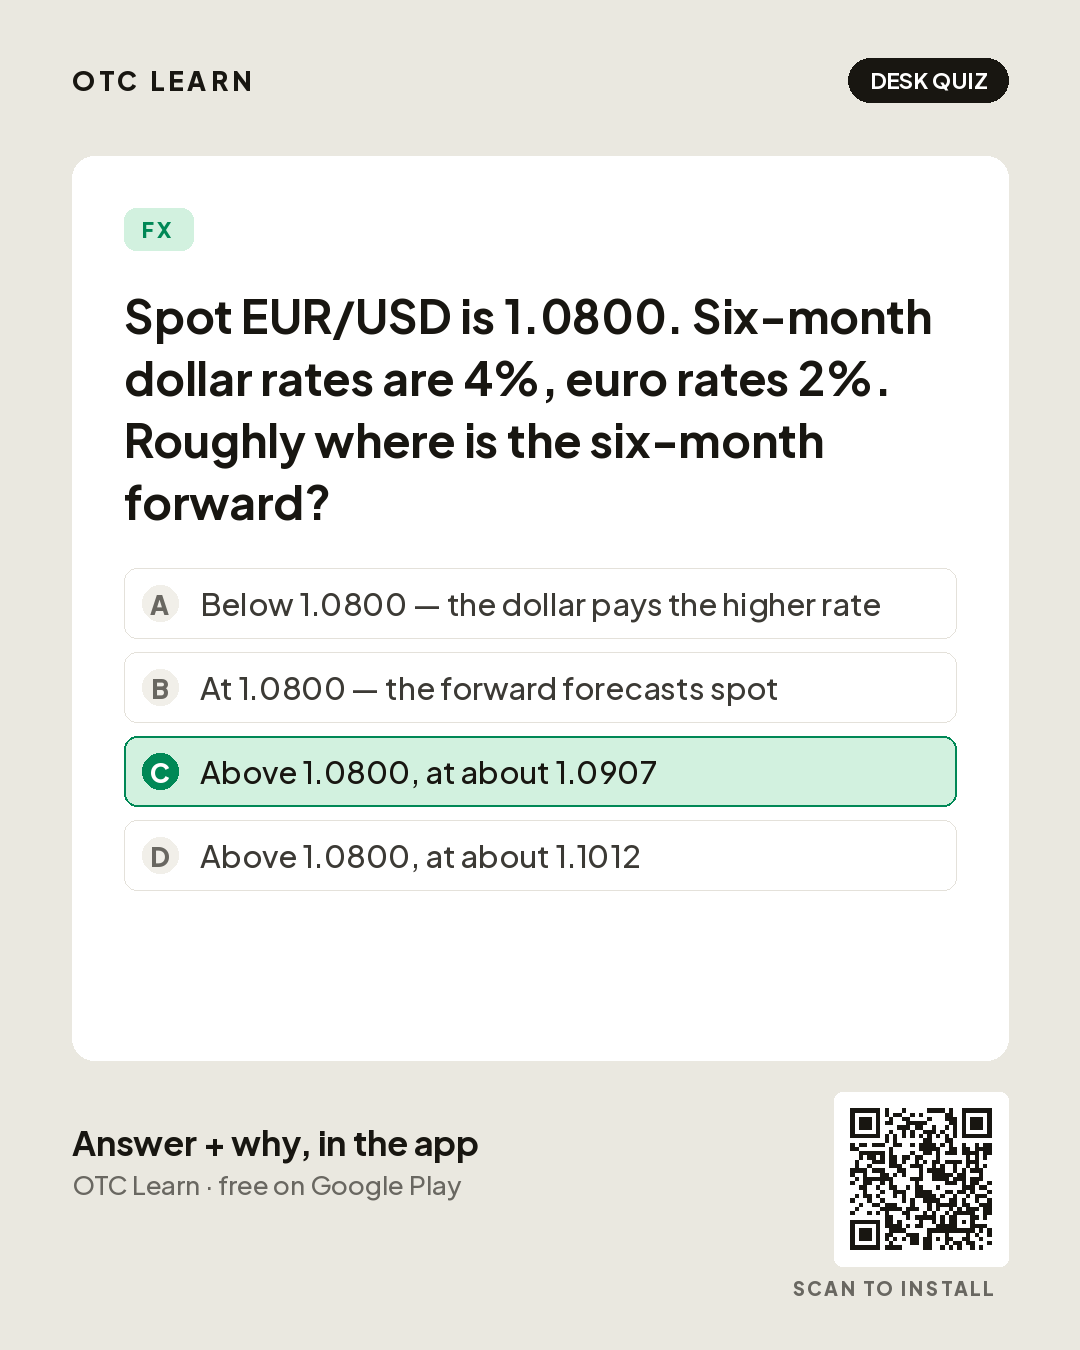
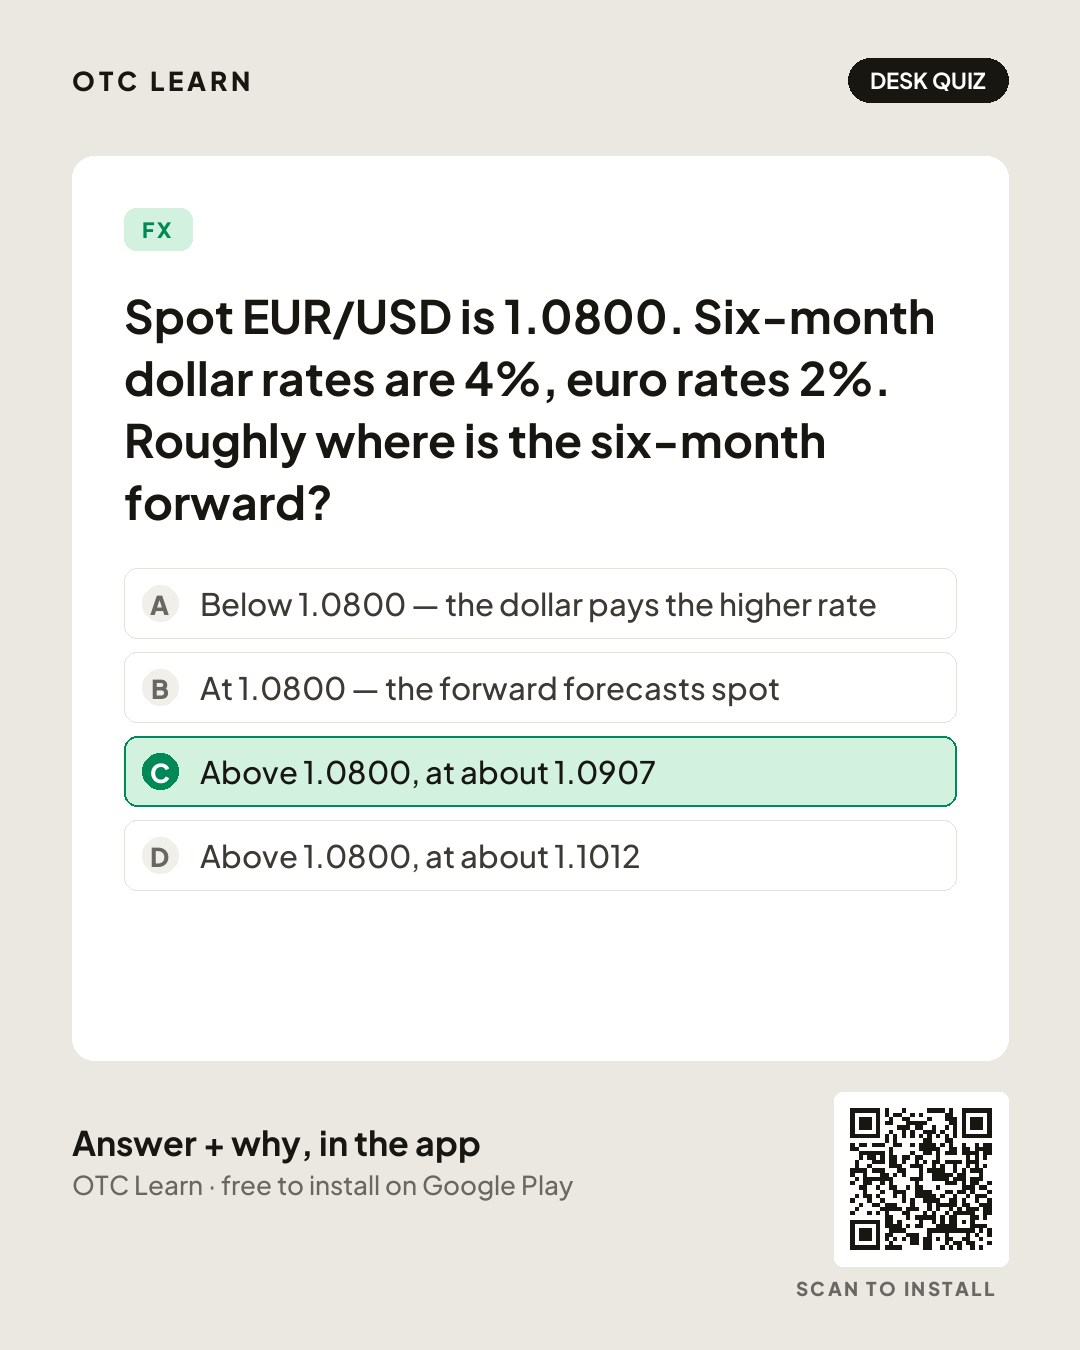
Scope the "free" claim on the quiz and tier cards, and catch gen2.py up
`c133ef5` set the rule — nothing claims the app is free without saying what is
free — and fixed one line. It missed two, both in this file:

- `otc_quiz` footed all four quiz cards with "OTC Learn · free on Google Play".
- `otc_tiers` carried the same line under copy reading "30 more products… From
  ₹29 a month", which is the worst place in the set for an unscoped claim.

Both now read "free to install on Google Play", matching what Cornerstone
already says. otc-quiz-01 through 04 and otc-tiers are regenerated; the other
nineteen posters are untouched because nothing about them changed.

**This copy of gen2.py had also drifted three corrections behind Cornerstone's**,
which `c025bfc` exists to prevent. It still rendered the FRM countdown as "15
November 2026" with a hardcoded 58 days and "Part I & Part II" — the wrong date,
corrected in Cornerstone by `e69c2db` to the 14 November window opening with the
day count computed from the render date. It also still said "Three clean passes
and it retires" where the schedule is six, and carried the pre-correction
cs-study-6 copy. Those all drive cs-* posters, which this repo does not track,
so no image here changes from them — but the next person to render from this
file would have produced three wrong posters.

The two copies are byte-identical again.

Claude-Session: https://claude.ai/code/session_011nKAJD8tykn4qbZgg13soi

diff --git a/marketing/social-v2/gen2.py b/marketing/social-v2/gen2.py
@@ -177,7 +177,8 @@ def otc_quiz(fn, catkey, question, options, correct):
             ty += 42
         y += rh + 14
 
-    footer(img, d, "otc", OTC_URL, "Answer + why, in the app", "OTC Learn · free on Google Play", W, H)
+    footer(img, d, "otc", OTC_URL, "Answer + why, in the app",
+           "OTC Learn · free to install on Google Play", W, H)
     save(img, fn)
 
 
@@ -304,7 +305,7 @@ def otc_tiers(fn):
           F(OTC.sans, 30, "Regular"), px, ty, W - 2 * M - 96, 44, "#B8B4AE")
 
     footer(img, d, "otc", OTC_URL, "Read it all without ever seeing a paywall",
-           "OTC Learn · free on Google Play", W, H)
+           "OTC Learn · free to install on Google Play", W, H)
     save(img, fn)
 
 
@@ -418,7 +419,7 @@ def cs_snapshot(fn, topic, eyebrow, title, body, formula=None):
         y += 8
     d.text((px, y), "Tap the card for the exam angle", font=F(CS.sans, 25, "SemiBold"), fill=CS.muted)
 
-    footer(img, d, "cs", CS_URL, "Fifteen honest minutes.", "Cornerstone · free on Google Play", W, H)
+    footer(img, d, "cs", CS_URL, "Fifteen honest minutes.", "Cornerstone · free to install on Google Play", W, H)
     save(img, fn)
 
 
@@ -577,7 +578,7 @@ def cs_countdown(fn, exam, date_line, days, body):
     y = block(d, date_line, F(CS.sans, 38, "Medium"), M, y, W - 2 * M, 54, "#f4f1ea") + 12
     block(d, body, F(CS.sans, 32, "Regular"), M, y, W - 2 * M - 40, 48, "#c3c8d2")
 
-    footer(img, d, "cs", CS_URL, "Five questions a day.", "Cornerstone · free on Google Play",
+    footer(img, d, "cs", CS_URL, "Five questions a day.", "Cornerstone · free to install on Google Play",
            W, H, M, dark=True)
     save(img, fn)
 
@@ -735,17 +736,22 @@ if __name__ == "__main__":
              "The core idea, the formula that does the work, and the angle the examiners actually test — then prove it.",
              3, 6)
     cs_slide("cs-study-4.png", "The queue", "Anything you miss comes back tomorrow.",
-             "Then in four days, then in ten, then less often as it sticks. Three clean passes and it retires.",
+             "Then in four days, then in ten, then less often as it sticks. Six clean passes and it retires.",
              4, 6)
     cs_slide("cs-study-5.png", "Weighted", "Your progress bar respects the exam weights.",
              "A 15–20% topic counts for more than a 5–8% one, so the number on the home screen means something.",
              5, 6)
-    cs_slide("cs-study-6.png", None, "38 topic areas, free. 260 glossary terms, free.",
-             "CFA Levels I–III and FRM Parts I and II, side by side. Everything the app shipped with stays free, permanently.",
-             6, 6, dark=True, cta="Free on Google Play")
+    cs_slide("cs-study-6.png", None, "38 topic areas. 260 glossary terms, always free.",
+             "CFA Levels I–III and FRM Parts I and II, side by side. Free core in every topic; extra segments are an optional subscription.",
+             6, 6, dark=True, cta="Free to install on Google Play")
 
-    cs_countdown("cs-frm-countdown.png", "FRM Part I & Part II", "15 November 2026",
-                 "58", "Eight weeks. Five questions a day is 280 questions between now and the paper.")
+    # Day count is computed, not typed: set COUNTDOWN_ON=YYYY-MM-DD to render for the day you post.
+    # Target is the opening of GARP's November 2026 FRM Part I window (14-20 Nov; Part II 21-25 Nov).
+    from datetime import date
+    _on = date.fromisoformat(os.environ.get("COUNTDOWN_ON", date.today().isoformat()))
+    _days = (date(2026, 11, 14) - _on).days
+    cs_countdown("cs-frm-countdown.png", "FRM Part I", "Exam window opens 14 November 2026",
+                 str(_days), f"Part II follows from 21 November. Five questions a day is {5 * _days} questions between now and the window.")
 
     promo_card("cs-promo.png", "cs", "CORNERSTONE30", 30,
                "Thirty days of every segment.",

diff --git a/ACTION-ITEMS.md b/ACTION-ITEMS.md
@@ -644,12 +644,22 @@ account there is nothing for a user to decline.
 listing denies collecting is the under-declaring direction, and that is what
 Play suspends apps for."* Every change here adds a declaration. None removes one.
 
-### Still open
+### Still open — now one Console click, nothing else
 
 The question *"do you provide a way for users to request that some or all of
 their data be deleted, without requiring them to delete their account?"* is
 **unanswered on Cornerstone** and answered on OTC Learn. Both apps have
-`resetProgress`, so the honest answer is yes for both — but the field wants a URL
-and Cornerstone's `DELETE-ACCOUNT.html` documents only full account deletion.
-Add a section to that page describing the in-app reset, then answer it. It is an
-optional question, which is why it did not block this submission.
+`resetProgress`, so the honest answer is yes for both.
+
+**The prerequisite is done.** This entry used to say Cornerstone's
+`DELETE-ACCOUNT.html` documented only full account deletion and needed a section
+written. It no longer does: `eac44f3` added **"Delete your progress without
+deleting your account"** in the same commit as the feature, naming the exact path
+(**Profile → Account → Reset progress**, matching `app/account.tsx:134,322`),
+what it erases, and that neither the account nor the subscription is touched.
+Verified live on 11 October 2026 at
+<https://singhalsachin2003.github.io/CornerStone/DELETE-ACCOUNT.html>.
+
+So the remaining work is answering the question in the Console with that URL —
+the same one already used for full deletion. It is an optional question, which is
+why it did not block the submission.
